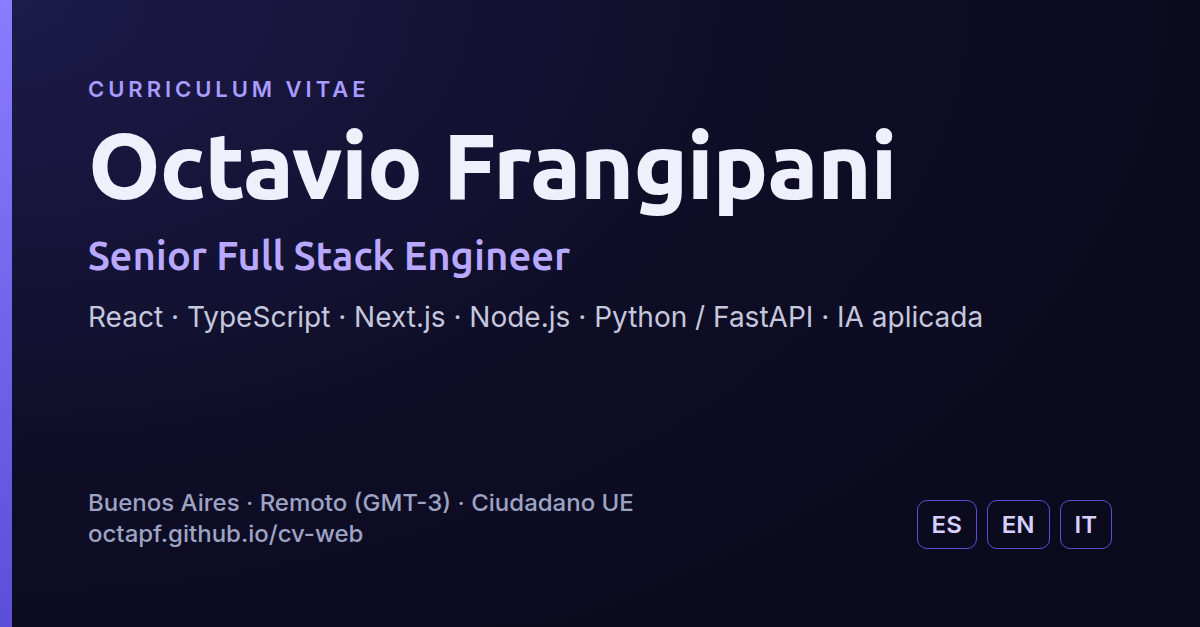
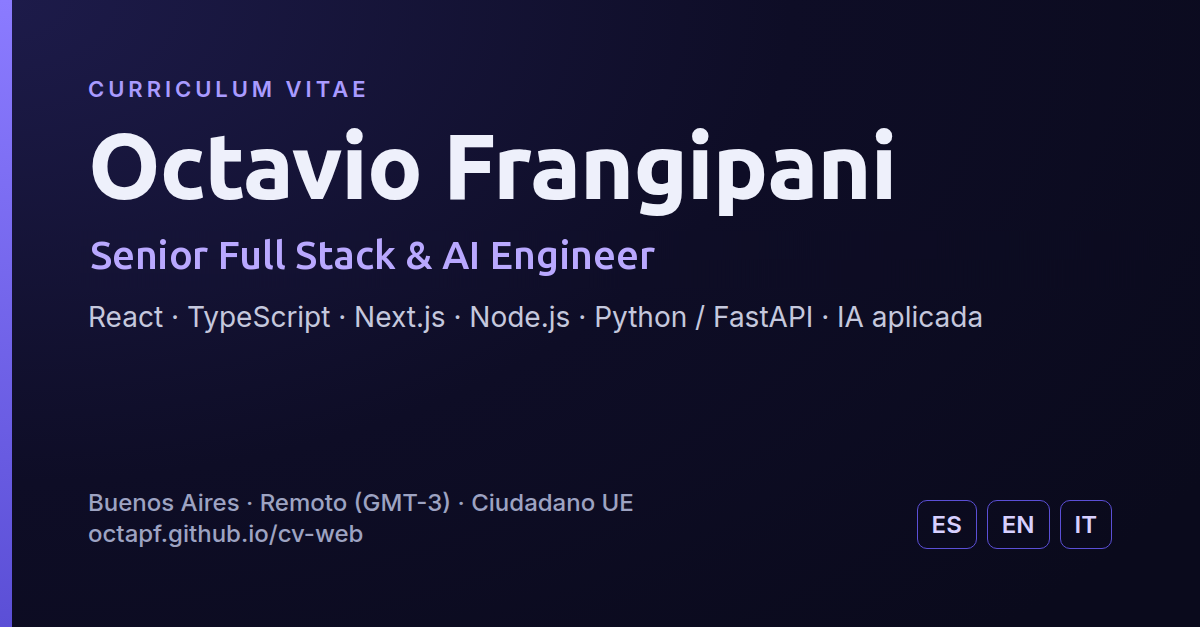
CV: título Full Stack & AI Engineer y línea sobre apps con LLMs
- Titular, metadatos y alt de la imagen OG: «Senior Full Stack & AI Engineer» (es/en/it).
- Rol en MIRALAB: «Founder · Full Stack & AI Engineer».
- Resumen: apps con LLMs en MIRALAB (asistente de WhatsApp de Changa con la API de Claude y tool use, con respaldo por reglas) y desarrollo asistido por agentes.
- Imagen para compartir (og-cv.png) con el título nuevo; nombre del PDF descargado.
- PDF de nuevo en una sola página en los tres idiomas (la educación ya se iba a una segunda): resumen del PDF más corto y un bullet menos de Minsait en el PDF (la web los muestra todos).

Claude-Session: https://claude.ai/code/session_01JLFPcbC7xMdSgxzA7jaaiJ

Changed region(s): [[0.0617, 0.3636, 0.555, 0.4545]]

diff --git a/src/app/[locale]/cv/page.tsx b/src/app/[locale]/cv/page.tsx
@@ -116,7 +116,7 @@ const PDF_BULLET_INDEXES: Partial<Record<(typeof EXPERIENCE_ROLES)[number]['bull
   {
     roleDatadopeBullets: [0, 6, 4],
     roleMiralabBullets: [1],
-    roleMinsaitBullets: [0, 1, 5],
+    roleMinsaitBullets: [0, 5],
     roleUrbanyBullets: [],
     roleWorksutBullets: [],
     roleLetiziaBullets: [],
@@ -147,7 +147,7 @@ export async function generateMetadata({ params }: CvPageProps): Promise<Metadat
           url: `${CV_SITE_URL}/og-cv.png`,
           width: 1200,
           height: 627,
-          alt: 'Octavio Frangipani — Senior Full Stack Engineer',
+          alt: 'Octavio Frangipani — Senior Full Stack & AI Engineer',
         },
       ],
     },
